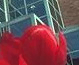
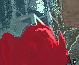
assign mode revisited

diff --git a/assign1/meanset.py b/assign1/meanset.py
@@ -2,11 +2,11 @@ import sys
 import cv2
 import numpy as np
 import math
-kernel_hs=30
+kernel_hs=50
 kernel_hc=30
 flat_kernel_h=1
 kernel_h=10
-kernel_window=2*kernel_h
+kernel_window=4*kernel_h
 kernel_thres=1.1
 filename = sys.argv[1]
 img = cv2.imread(filename)
@@ -16,11 +16,9 @@ height, width, channels = img.shape
 imgLAB = cv2.cvtColor(img, cv2.COLOR_BGR2LAB)
 imgLAB=img
 m=1
-S=50
-lis=[[] for i in range(height)]
-# for i in range(height):
-# 	l[i]=set(l[i])
-# lis = [[0,0] for j in  range(width*height)]
+S=1
+# lis=[[] for i in range(height)]
+lis = [[0,0] for j in  range(width*height)]
 # print len(lis)
 gradp = [[[0,0] for i in range(max(width,height))] for j in range(max(width,height))]
 final = [[[-1,-1] for i in range(max(width,height))] for j in range(max(width,height))]
@@ -38,7 +36,6 @@ def dist(x1,y1,x2,y2):
 
 def check_convergance(gx,gy):
 	if (math.sqrt(gx**2+gy**2)<7):
-		# print "there 2"
 		return 0
 	else:
 		return 1
@@ -48,7 +45,7 @@ def neggradientkernel(x1,y1,x2,y2):
 	Dc=distc(x1,y1,x2,y2)
 	# print Ds/kernel_hs,Dc/kernel_hc
 	return math.exp(-(Ds**2)/2/(kernel_hs**2))*math.exp(-(Dc**2)/2/(kernel_hc**2))/4*math.pi
-	#return a*math.exp(-(a**2)/2/(kernel_h**2))/math.sqrt(2*)/(kernel_h**2)
+	#return math.exp(-(a**2)/2/(kernel_h**2))/math.sqrt(2*)/(kernel_h**2)
 
 def flatkernel(x1,y1,x2,y2):
 	if ( dist(x1,y1,x2,y2)/flat_kernel_h <= 1):
@@ -56,47 +53,44 @@ def flatkernel(x1,y1,x2,y2):
 	else:
 		return 0
 
-def assignmodeb(x,y):
-	row=[]
-	row.append(x)
-	lis[x].append(y)
+# def assignmodeb(x,y):
+# 	row=[]
+# 	row.append(x)
+# 	lis[x].append(y)
+# 	tx=x
+# 	ty=y
+# 	while(check_convergance(gradp[tx][ty][0],gradp[tx][ty][1])):
+# 		if(ty in lis[tx]):
+# 			break
+# 		row.append(tx)
+# 		lis[tx].append(ty)
+# 		# lis[i]=[tx,ty] print i print tx,ty i=i+1
+# 		[tx,ty]=[tx+gradp[tx][ty][0],ty+gradp[tx][ty][1]]
+# 	for j in row:
+# 		x =lis[j].pop()
+# 		final[j][x]=[tx,ty] # [temx,temy]=lis[j] final[temx][temy]=[tx,ty]
+# 		# l[j].clear()
+# 	return
+
+count=0
+def assignmode(x,y):
+	i=0
+	lis[i]=[x,y]
+	i=i+1
 	tx=x
 	ty=y
 	while(check_convergance(gradp[tx][ty][0],gradp[tx][ty][1])):
-		if(ty in lis[tx]):
+		if(i>height and tx in lis):
 			break
-		row.append(tx)
-		lis[tx].append(ty)
-		# lis[i]=[tx,ty] print i print tx,ty i=i+1
+		lis[i]=[tx,ty]
+		i=i+1
 		[tx,ty]=[tx+gradp[tx][ty][0],ty+gradp[tx][ty][1]]
-	for j in row:
-		x =lis[j].pop()
-		final[j][x]=[tx,ty] # [temx,temy]=lis[j] final[temx][temy]=[tx,ty]
-		# l[j].clear()
+	count+=1
+	for j in range(i):
+		[temx,temy]=lis[j]
+		final[temx][temy]=[tx,ty]
 	return
 
-# def assignmode(x,y):
-# 	i=0
-# 	lis[i]=[x,y]
-# 	i=i+1
-# 	tx=x
-# 	ty=y
-# 	# if check_convergance(gradp[x][y][0],gradp[x][y][1]):
-# 	# 	final[x][y][0]=x
-# 	# 	final[x][y][1]=y
-# 	# 	return [x,y]
-# 	# else:
-# 	# 	lis=[]
-# 	while(check_convergance(gradp[tx][ty][0],gradp[tx][ty][1])):
-# 		lis[i]=[tx,ty]
-# 		# print i
-# 		# print tx,ty
-# 		i=i+1
-# 		[tx,ty]=[tx+gradp[tx][ty][0],ty+gradp[tx][ty][1]]
-# 	for j in range(i):
-# 		[temx,temy]=lis[j]
-# 		final[temx][temy]=[tx,ty]
-# 	return
 
 print "Computing gradient"
 for i in range(height):
@@ -129,7 +123,7 @@ print "Computing Mode Positions"
 for i  in range(height):
 	for j in range(width):
 		if(final[i][j][0]==-1):
-			assignmodeb(i,j)
+			assignmode(i,j)
 
 # print "Final Positions"
 # for i in range(height):
@@ -143,8 +137,9 @@ for i in range(height):
 		imgLABComp[i][j][0]=imgLAB[final[i][j][0]][final[i][j][1]][0]
 		imgLABComp[i][j][1]=imgLAB[final[i][j][0]][final[i][j][1]][1]
 		imgLABComp[i][j][2]=imgLAB[final[i][j][0]][final[i][j][1]][2]
-# cv2.imshow('image',imgLABComp)
 cv2.imwrite('type1.png',imgLABComp)
+
+
 for i in range(height):
 	for j in range(width):
 		if(final[i][j][0]==i and final[i][j][1]==j):
@@ -160,7 +155,7 @@ for i in range(height):
 
 
 print "Computing Final Image"
-
+print count
 imgLABComp=img
 for i in range(height):
 	for j in range(width):
